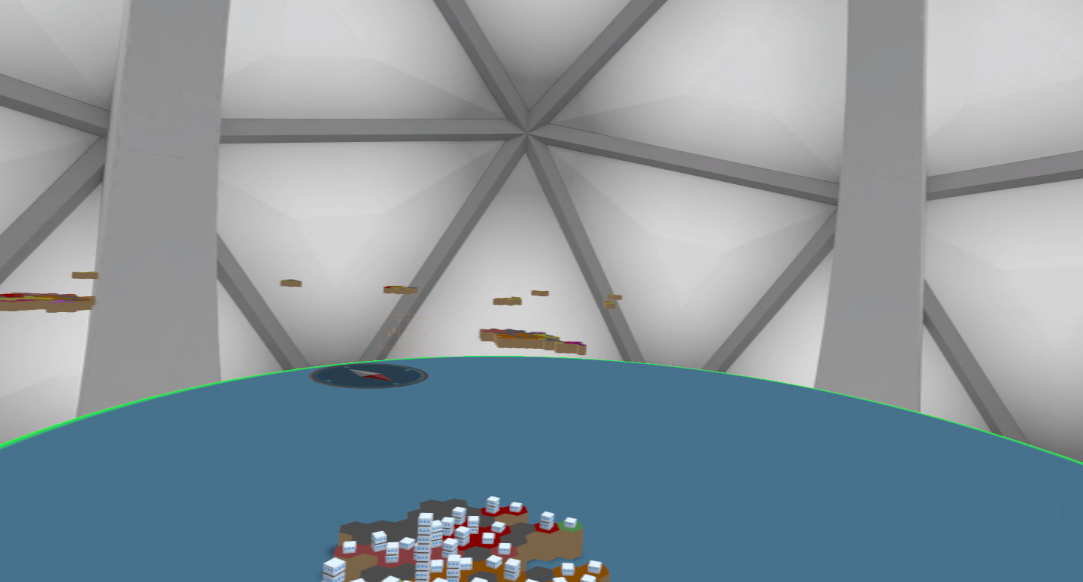
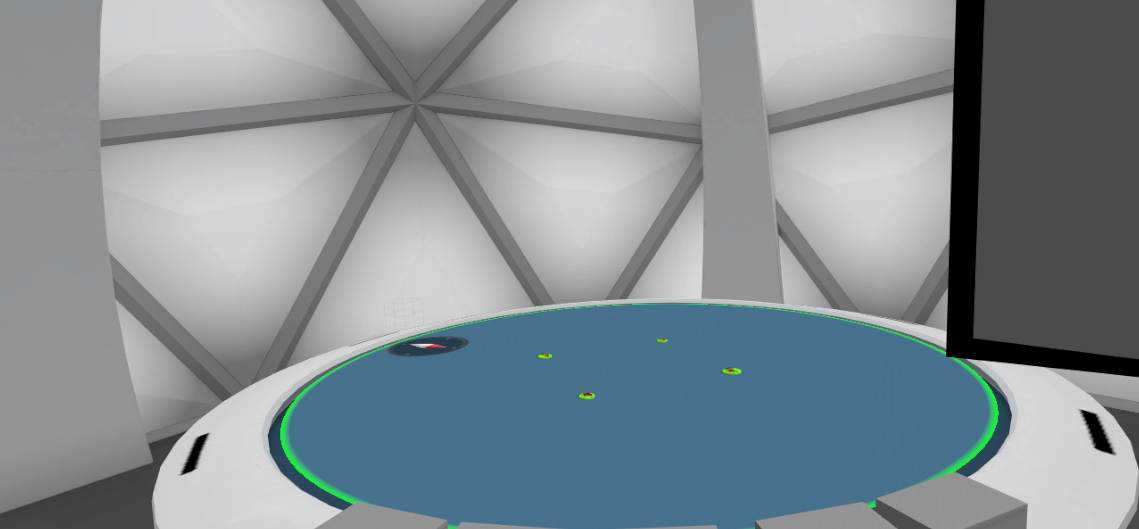
IslandMovement and tidy up code

diff --git a/Assets/GameobjectCreation/GO_Controller_Scripts/IslandController_Script.cs b/Assets/GameobjectCreation/GO_Controller_Scripts/IslandController_Script.cs
@@ -117,7 +117,6 @@ public class IslandController_Script : MonoBehaviour
 
     public IEnumerator UpdateRoutine(Commit newCommit, IslandContainerController_Script controllerScript, bool justActivated, System.Action<IslandController_Script> callback)
     {
-        
         changeStatus = ChangeStatus.unknown;
         if (justActivated)
         {
@@ -127,18 +126,25 @@ public class IslandController_Script : MonoBehaviour
         {
             changeIndikator.SetActive(false);
         }
-        ZoomLevel currentZoomLevel = islandGOScript.CurrentZoomLevel;
-        islandGOScript.ResetRegions();
+
+        //Reposition & Update IslandDocks
+        float radius2 = bundleMaster.GetGrid().GetOuterAssignedFirstTwoSixths(newCommit);
+        if (radius2 < 1)
+            radius2 = 1;
+        radius2 = Constants.GetRadiusFromRing((int)radius2);
+        importDock.transform.localPosition = new Vector3(0f, Constants.dockYPos, 1.1f * radius2 + 2);
+        exportDock.transform.localPosition = new Vector3(2f, Constants.dockYPos, 1.1f * radius2 + 1);
+        yield return UpdateExportDock(newCommit);
+        yield return UpdateImportDock(newCommit);
+        //after this docks are ready for Dependency Arrow creation
+        callback(this);
 
         //Update visible Sub-GameObjects
         StartCoroutine(coastLine.GetComponent<CoastlineController_Script>().RenewCoastlineMesh(newCommit));
-        yield return null;
-
         List<Region> activeRegions = new List<Region>();
-        float islandHeight = 10;
         foreach (GameObject region in regions)
         {
-            StartCoroutine(region.GetComponent<RegionController_Script>().RenewRegion(null, newCommit, currentZoomLevel, (returnScript)=> { if (returnScript != null) { activeRegions.Add(returnScript); } } ));
+            StartCoroutine(region.GetComponent<RegionController_Script>().RenewRegion(null, newCommit, (returnScript)=> { if (returnScript != null) { activeRegions.Add(returnScript); } } ));
         }
         yield return null;
 
@@ -155,35 +161,22 @@ public class IslandController_Script : MonoBehaviour
         Renderer coastRender = coastLine.GetComponent<MeshRenderer>();
         Vector3 center = coastRender.bounds.center;
         Vector3 extends = coastRender.bounds.extents;
-        float radius = Mathf.Sqrt(Mathf.Pow(extends.x, 2) + Mathf.Pow(extends.z, 2));
-
-        //Reposition IslandDocks
-        float radius2 = bundleMaster.GetGrid().GetOuterAssignedFirstTwoSixths(newCommit);
-        if (radius2 < 1)
-            radius2 = 1;
-        radius2 = Constants.GetRadiusFromRing((int)radius2);
-        Vector3 centerlocal = transform.InverseTransformPoint(center);
-        centerlocal.y = 0;
-        importDock.transform.localPosition = new Vector3(0f, Constants.dockYPos, 1.1f*radius2 + 2);
-        exportDock.transform.localPosition = new Vector3(2f, Constants.dockYPos, 1.1f*radius2 + 1);
-        callback(this);
-
-        StartCoroutine(UpdateExportDock(newCommit, currentZoomLevel));
-        StartCoroutine(UpdateImportDock(newCommit, currentZoomLevel));
+        float radius = Mathf.Max(extends.x, extends.z);
 
         //Resize & Update Island Collider
         SphereCollider cc = gameObject.GetComponent<SphereCollider>();
-        cc.radius = 2*radius;
+        cc.radius = 2*radius / transform.lossyScale.x;
         if (IslandVizVisualization.Instance.CurrentZoomLevel.Equals(ZoomLevel.Far))
             cc.enabled = true;
         else
             cc.enabled = false;
 
         //Resize ChangeIndicator Based on MeshSizeOfIsland
+        Vector3 centerlocal = transform.InverseTransformPoint(center);
         centerlocal.y = Constants.standardHeight / 6f;
         changeIndikator.transform.localPosition = centerlocal;
         changeIndikator.transform.localScale = new Vector3(2*radius/transform.lossyScale.x, Constants.standardHeight / 3f, 2*radius/transform.lossyScale.z);
-        StartCoroutine(SetChangeIndicator(changeStatus));
+        SetChangeIndicator(changeStatus);
 
 
         islandGOScript.SetRegions(activeRegions);
@@ -191,7 +184,7 @@ public class IslandController_Script : MonoBehaviour
         yield return null;
     }
 
-    public IEnumerator UpdateImportDock(Commit newCommit, ZoomLevel currentZoomlevel)
+    public IEnumerator UpdateImportDock(Commit newCommit)
     {
         importDock.SetActive(true);
         DependencyDock iDock = importDock.GetComponent<DependencyDock>();
@@ -209,7 +202,7 @@ public class IslandController_Script : MonoBehaviour
         }
     }
 
-    public IEnumerator UpdateExportDock(Commit newCommit, ZoomLevel currentZoomlevel)
+    public IEnumerator UpdateExportDock(Commit newCommit)
     {
         exportDock.SetActive(true);
         DependencyDock eDock = exportDock.GetComponent<DependencyDock>();
@@ -228,7 +221,7 @@ public class IslandController_Script : MonoBehaviour
     }
 
 
-    public IEnumerator SetChangeIndicator(ChangeStatus cs)
+    public void SetChangeIndicator(ChangeStatus cs)
     {
         MeshFilter mf = changeIndikator.GetComponent<MeshFilter>();
         if (cs.Equals(ChangeStatus.newElement))
@@ -251,7 +244,7 @@ public class IslandController_Script : MonoBehaviour
         {
             changeIndikator.SetActive(false);
         }
-        yield return null;
+       
     }
 
     public void SubstructureChange()
@@ -259,7 +252,7 @@ public class IslandController_Script : MonoBehaviour
         if (changeStatus.Equals(ChangeStatus.unknown))
         {
             changeStatus = ChangeStatus.changedElement;
-            StartCoroutine(SetChangeIndicator(changeStatus));
+            SetChangeIndicator(changeStatus);
         }
 
     }

diff --git a/Assets/GameobjectCreation/GO_Controller_Scripts/RegionController_Script.cs b/Assets/GameobjectCreation/GO_Controller_Scripts/RegionController_Script.cs
@@ -137,12 +137,12 @@ public class RegionController_Script : MonoBehaviour
         mc.sharedMesh = mesh;
     }
 
-    public IEnumerator UpdateBuildings(Commit c, ZoomLevel currentZoomlevel, List<Building> activeBuildingsInRegion)
+    public IEnumerator UpdateBuildings(Commit c, List<Building> activeBuildingsInRegion)
     {
         int i = 0;
         foreach(GameObject buildingManager in buildingMangagerGOs)
         {
-            Building result = buildingManager.GetComponent<BuildingController_Script>().UpdateBuilding(c, currentZoomlevel);
+            Building result = buildingManager.GetComponent<BuildingController_Script>().UpdateBuilding(c);
             if (result != null)
             {
                 activeBuildingsInRegion.Add(result);
@@ -165,7 +165,7 @@ public class RegionController_Script : MonoBehaviour
     /// <param name="tls"></param>
     /// <param name="regionScript"></param>
     /// <returns></returns>
-    public IEnumerator RenewRegion(Commit oldCommit, Commit newCommit, ZoomLevel currentZoomLevel, System.Action<OsgiViz.Unity.Island.Region> callback)
+    public IEnumerator RenewRegion(Commit oldCommit, Commit newCommit, System.Action<OsgiViz.Unity.Island.Region> callback)
     {
         TimelineStatus tls = packageMaster.RelationOfCommitToTimeline(newCommit);
         if (tls.Equals(TimelineStatus.present))
@@ -200,7 +200,7 @@ public class RegionController_Script : MonoBehaviour
         //Set Mesh To MeshCollider
         MeshFilter meshFilter = gameObject.GetComponent<MeshFilter>();
         gameObject.GetComponent<MeshCollider>().sharedMesh = meshFilter.sharedMesh;
-        if (currentZoomLevel.Equals(ZoomLevel.Far))
+        if (IslandVizVisualization.Instance.CurrentZoomLevel.Equals(ZoomLevel.Far))
         {
             gameObject.GetComponent<MeshCollider>().enabled = false;
         }
@@ -213,7 +213,7 @@ public class RegionController_Script : MonoBehaviour
 
         //Renew Buildings
         List<Building> activeBuildings = new List<Building>();
-        yield return UpdateBuildings(newCommit, currentZoomLevel, activeBuildings);
+        yield return UpdateBuildings(newCommit, activeBuildings);
 
         //Renew Attributes in RegionScript
         Package package = packageMaster.GetElement(newCommit);

diff --git a/Assets/GameobjectCreation/GO_Controller_Scripts/IslandContainerController_Script.cs b/Assets/GameobjectCreation/GO_Controller_Scripts/IslandContainerController_Script.cs
@@ -138,15 +138,15 @@ public class IslandContainerController_Script : MonoBehaviour
     private IEnumerator MoveIsland(Commit newCommit, System.Action<IslandContainerController_Script> callback)
     {
         yield return null;
-        /*speed = HistoryNavigation.Instance.islandspeed;
+        speed = HistoryNavigation.Instance.islandspeed;
 
         Vector2 pos2D = bundleMaster.GetElement(newCommit).GetPosition();
         Vector3 target = new Vector3(pos2D.x, 0f, pos2D.y);
 
         Vector3 direction = target - island.transform.localPosition;
 
-        while (direction.magnitude >= 0.1 /*& Time.time - movingStartTime < 10*/ //)
-       /* {
+        while (direction.magnitude >= 0.5f /*& Time.time - movingStartTime < 10*/ )
+        {
             Vector3 newPos = island.transform.localPosition + direction.normalized * 0.1f * speed;
             island.transform.localPosition = newPos;
             //island.transform.Translate(direction.normalized * 0.1f*speed);
@@ -154,7 +154,7 @@ public class IslandContainerController_Script : MonoBehaviour
 
             yield return new WaitForSeconds(0.1f);
             direction = target - island.transform.localPosition;
-        }*/
+        }
         //NotivyIslandMovementFinished();
         callback(this);
 

diff --git a/Assets/GameobjectCreation/GO_Controller_Scripts/BuildingController_Script.cs b/Assets/GameobjectCreation/GO_Controller_Scripts/BuildingController_Script.cs
@@ -30,7 +30,7 @@ public class BuildingController_Script : MonoBehaviour
         regionScript = r;
     }
 
-    public Building UpdateBuilding (Commit c, ZoomLevel currentZoomlevel)
+    public Building UpdateBuilding (Commit c)
     {
         TimelineStatus tls = compUnit.RelationOfCommitToTimeline(c);
         if (tls != TimelineStatus.present)
